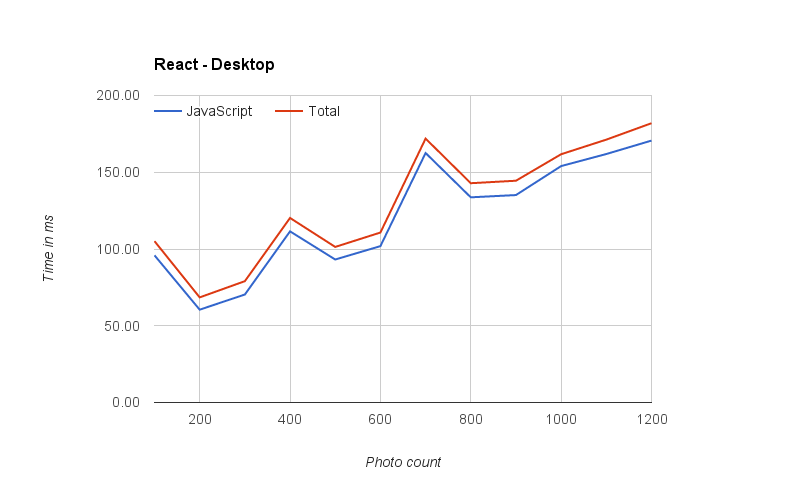
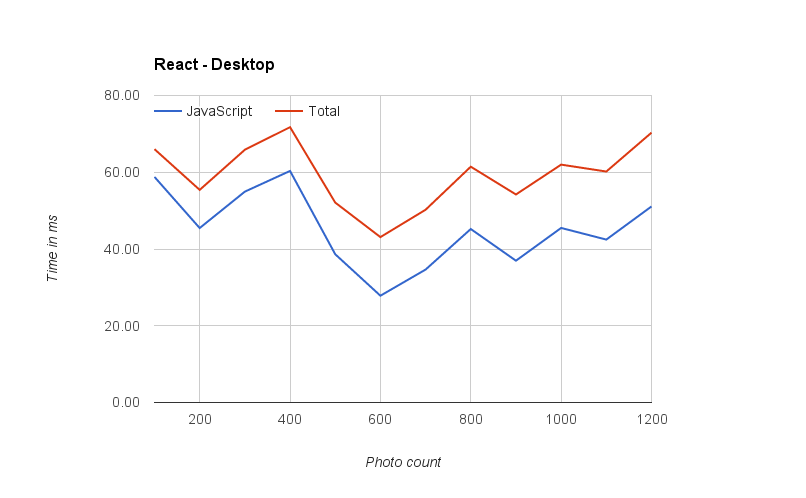
Release 2015-07-03:14:15:34

diff --git a/blog/react-plus-performance-equals-what/index.html b/blog/react-plus-performance-equals-what/index.html
@@ -229,7 +229,7 @@
 
         <li>
           <span class="name">Est. Read Time:</span>
-          <span class="value">12 mins</span>
+          <span class="value">13 mins</span>
         </li>
 
         <li class="share">
@@ -252,6 +252,8 @@
   </div>
 
   <div class="container"><div class="left column">
+
+<p><strong>Update 7/3/15: I failed to use the minified version of React in the test, which is the production version. This was my mistake, and I apologise. I have since updated the test, the graphs and commentary. My conclusions, however, are the same, and the good news is that some of the numbers did come down.</strong></p>
 
 <p>Time to have a play with React, I thought. And so I set about having a noodle, and, looking over the docs, I noticed this little nugget:</p>
 
@@ -368,10 +370,12 @@
 </figure>
 
 <blockquote>
-  <p>What surprised me was that the time taken for 100 pictures (around 500 elements) was 95ms on my MacBook Pro.</p>
+  <p>What surprised me was that the time taken for 100 pictures (around 500 elements) was 60ms on my MacBook Pro.</p>
 </blockquote>
 
-<p>There’s a rough trend upwards, which makes sense: the more elements you have the more nodes that React has to diff. What surprised me was that the time taken to compare the DOM with 100 pictures (around 500 elements) was <strong>95ms on my MacBook Pro</strong>. Even running the test a bunch of times, the best I could get was around 75ms. That’s locking up the main thread, so if I have any work to do at all when React is comparing trees, I’m all out of luck.</p>
+<p>There’s a fairly flat graph here. I know from running this test a bunch that there is a slow trend upwards, but you have to get to some seriously large DOM sizes for it to matter. That said, I do have a pretty hefty MacBook Pro, so the CPU is probably churning through at a monster rate.</p>
+
+<p>What did surprise me, though, was that the time taken to compare the DOM with 100 pictures (around 500 elements) was <strong>60ms on my MacBook Pro</strong>. Even running the test a bunch of times, the best I could get was around 45ms. That’s locking up the main thread, so if I have any work to do at all when React is comparing trees, I’m all out of luck.</p>
 
 <p>Other thing of note: the JavaScript time is going up, but the time to actually manipulate the DOM (Total time minus JavaScript time) remains steady at ~10ms, which implies that we’re not doing much to trouble Blink. That’s as it should be, since React is supposed to keep my DOM changes to a minimum.</p>
 
